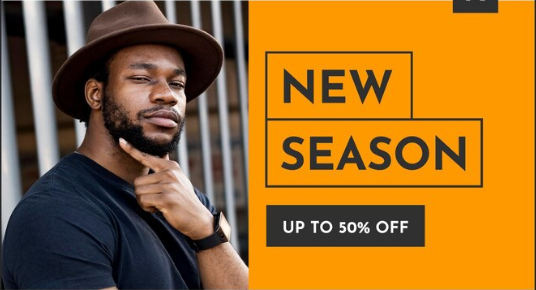
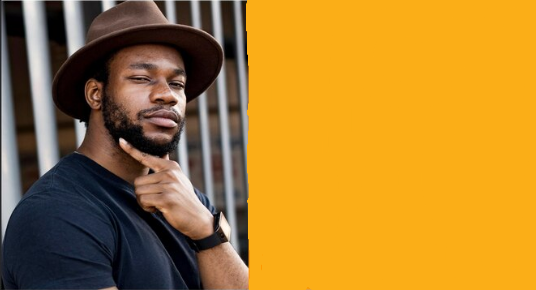
Diseño V2
continuamos con el diseño de la plantilla

Changed region(s): [[0.4478, 0.0, 1.0, 1.0], [0.4776, 0.6828, 0.806, 0.869]]

diff --git a/assets/css/index.css b/assets/css/index.css
@@ -1,5 +1,11 @@
+body{
+    margin-left: 0%;
+    margin-right: 0%;
+}
+
 header{
     text-align: center;
+    position: relative;
 }
 
 .logo{
@@ -7,4 +13,68 @@ header{
    border: 3px solid black;
    padding: 7px 60px;
    margin-bottom: 60px;
+}
+
+.estilo{
+    position: absolute;
+    top: 25%;
+    left: 50%;
+    transform: translate(-50%, -50%);
+    color: white;
+    font-size: 10em;
+}
+
+.imagen1{
+    width: 100%;
+    margin-bottom: 20px;
+}
+
+.medio{
+    text-align: center;
+}
+
+.titulo1{
+    font-size: 40px;
+    margin-bottom: 0;
+}
+
+.compra{
+    margin-top: 15px;
+    display: inline-block;
+    border: 3px solid orange;
+    background-color: orange;
+    padding: 7px 60px;
+    color: white;
+    margin-bottom: 60px;
+}
+
+.imagen2{
+    position: relative;
+    width: 100%;
+}
+
+.nuevo{
+    position: absolute;
+    top: 120%;
+    left: 54%;
+    color: white;
+    font-size: 4em;
+}
+
+.parrafo{
+    position: absolute;
+    top: 130%;
+    left: 55%;
+}
+
+.compra2{
+    position: absolute;
+    top: 140%;
+    left: 59%;
+    font-size: 2em;
+    display: inline-block;
+    border: 3px solid black;
+    padding: 10px 60px;
+    background-color: black;
+    color: white;
 }

diff --git a/assets/index.html b/assets/index.html
@@ -15,20 +15,20 @@
             <img class="imagen1" src="img/Imagen1.PNG" alt="Imagen en blanco y negro">
             <h1 class="estilo">STYLE</h1>
         </section>
-        <section>
-            <h1>UP TO 50%OFF</h1>
+        <section class="medio">
+            <h1 class="titulo1">UP TO 50%OFF</h1>
             <p>No se que poner - No se que poner - No se que poner</p>
             <p>No se que poner - No se que poner - No se que poner</p>
             <div class="compra">SHOP NOW</div>
         </section>
         <section>
             <img class="imagen2" src="img/Imagen2.PNG">
-            <div>NEW STYLE</div>
+            <div class="nuevo">NEW STYLE</div>
             <p class="parrafo">No se que poner - No se que poner - No se que poner</p>
             <div class="compra2">BUY NOW</div>
         </section>
     <footer>
-        <h1 class="titulo">FOLLOW ALONG WITH US</h1>
+        <h1 class="titulo2">FOLLOW ALONG WITH US</h1>
         <img class="imagen3" src="img/Imagen3.PNG">
         <p>No se que poner - No se que poner - No se que poner</p>
         <p>No se que poner - No se que poner - No se que poner</p>
